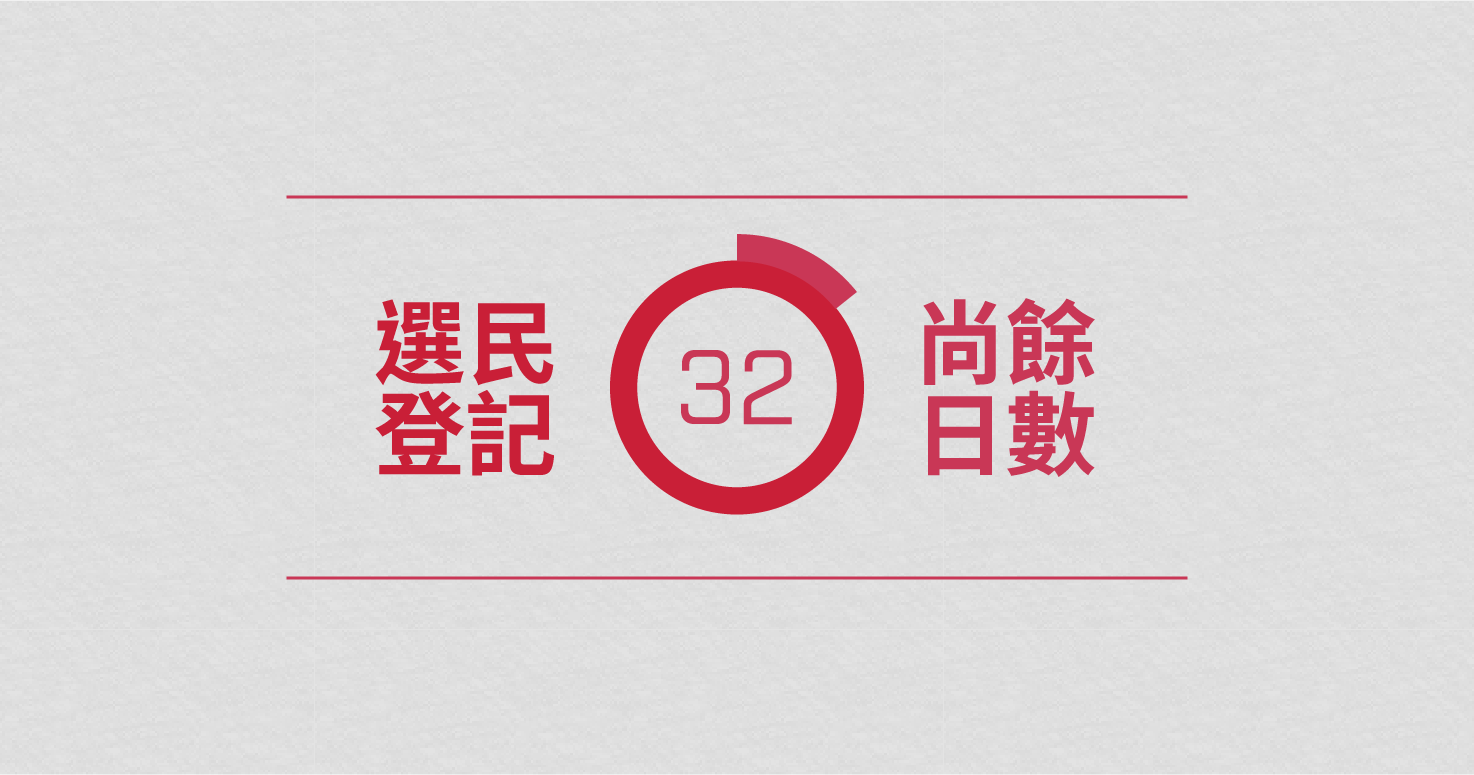
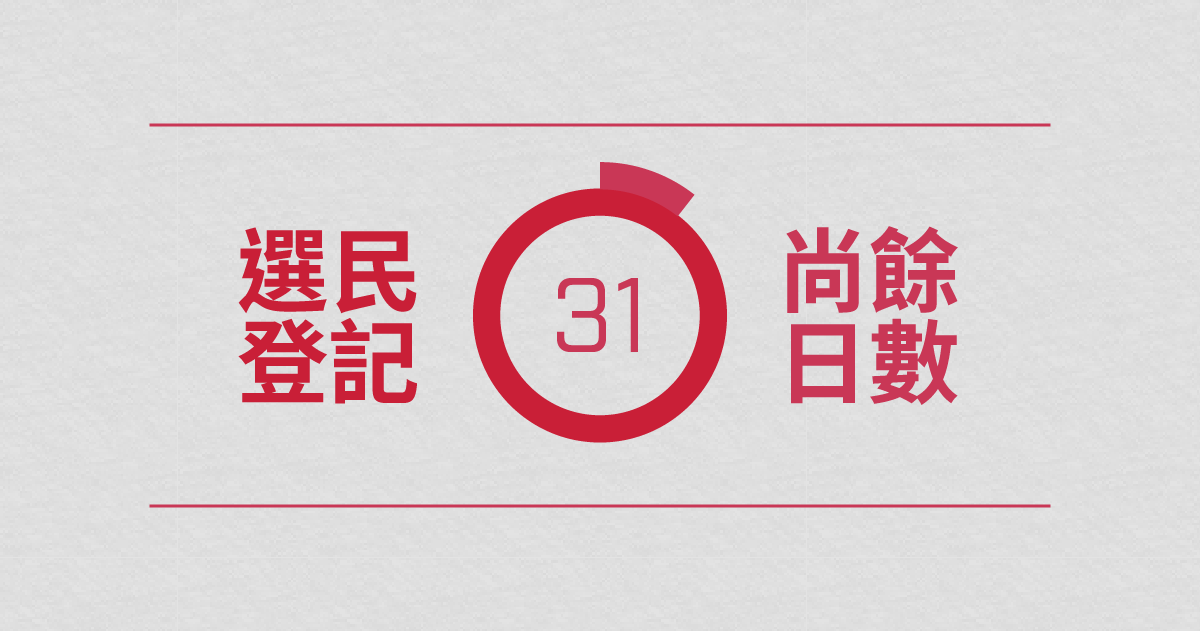
FB countdown: 31 days left

Changed region(s): [[0.185, 0.2409, 0.8017, 0.7528], [0.1233, 0.7829, 0.8633, 0.813], [0.1233, 0.1807, 0.8633, 0.2108]]

diff --git a/index.html b/index.html
@@ -5,7 +5,7 @@
   <meta charset="utf-8">
   <meta http-equiv="X-UA-Compatible" content="IE=edge">
   <meta name="viewport" content="width=device-width, initial-scale=1">
-  <meta property="og:image" content="https://kbfl-campaign.github.io/assets/fb.png?mar31">
+  <meta property="og:image" content="https://kbfl-campaign.github.io/assets/fb.png?apr1">
   <title>我是方丈選民登記行動</title>
   <link href="https://fonts.googleapis.com/earlyaccess/notosanstc.css" rel="stylesheet">
   <link href="bootstrap/css/bootstrap.min.css" rel="stylesheet">
